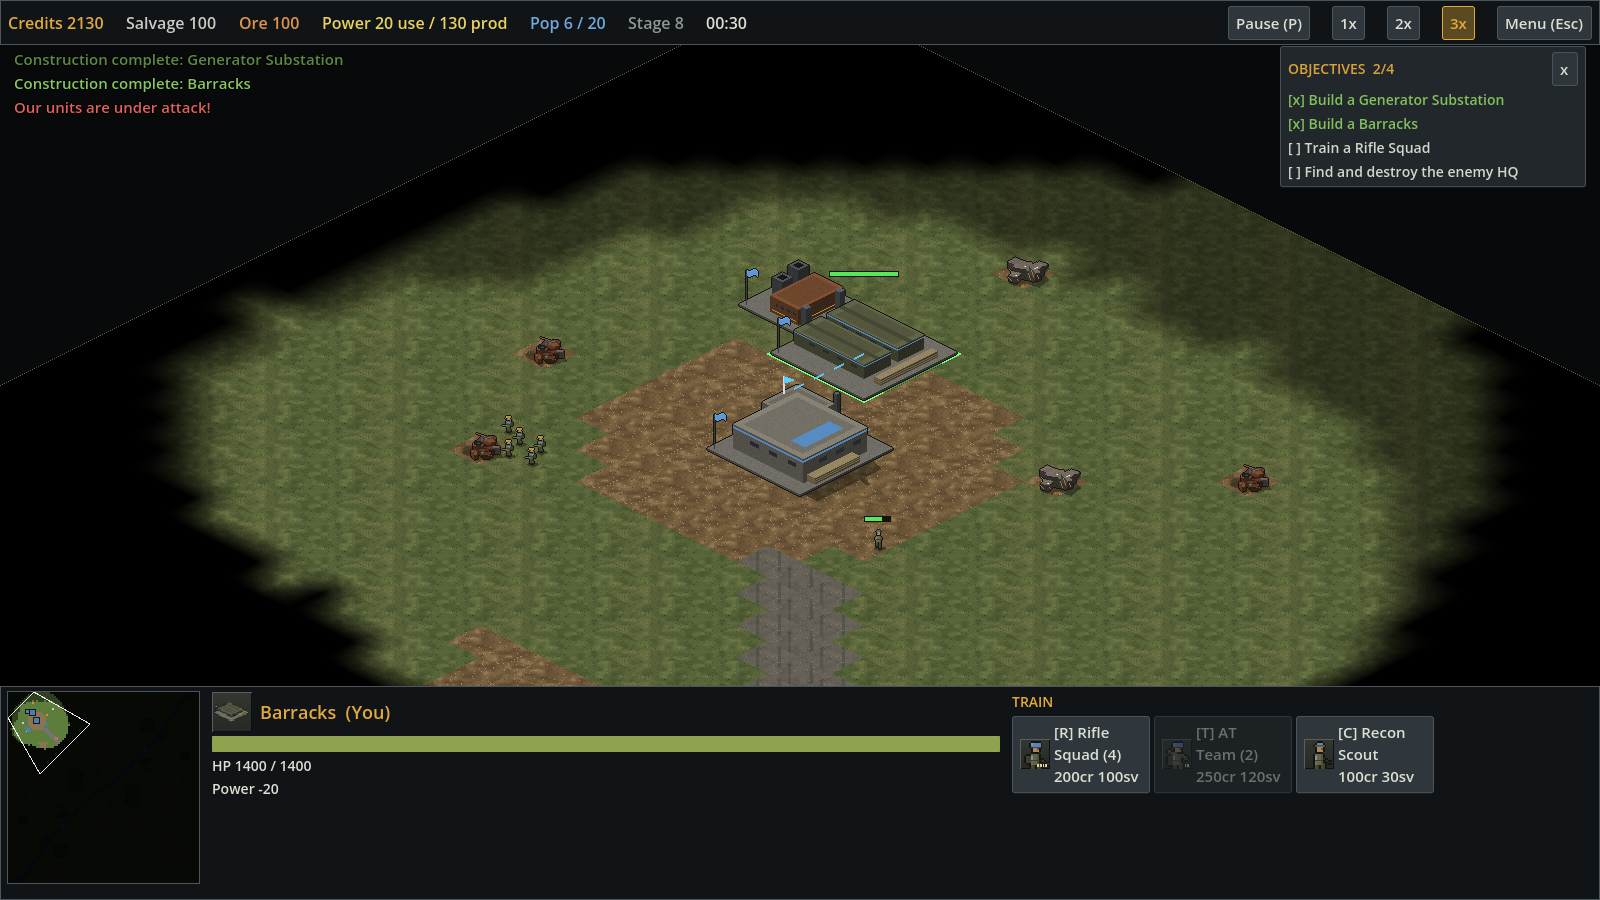
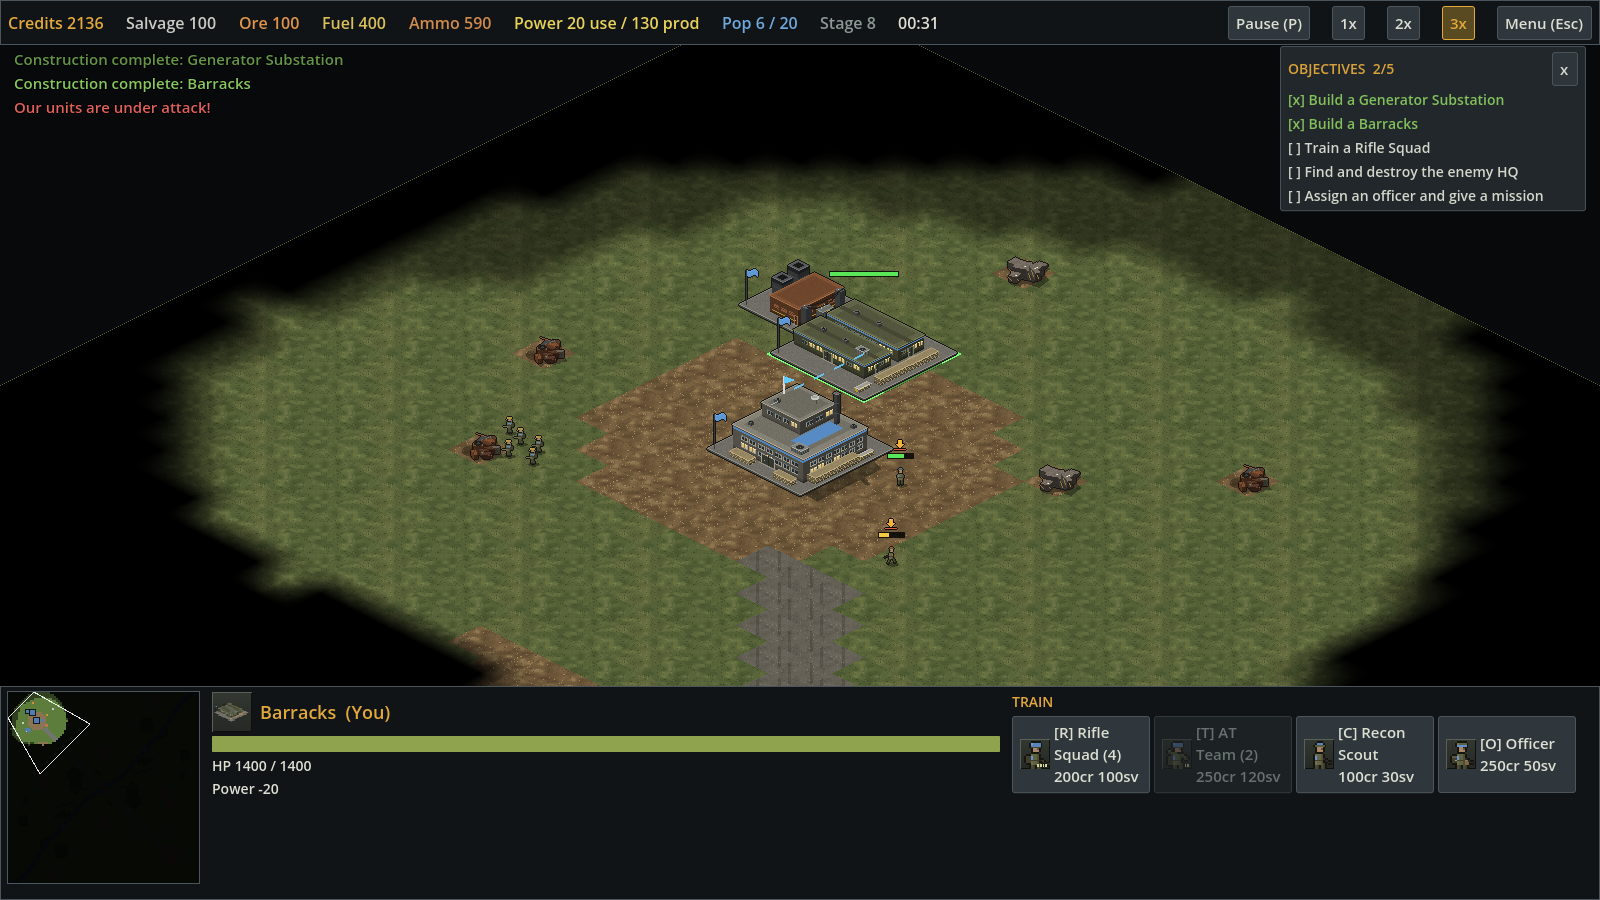
G2 verification: UI playtest with officer flow (26/26, packaged x2), quiet-machine perf report, docs
- ui_playtest drives input via Input.parse_input_event (real-equivalent);
  adds officer train -> box-select -> assign -> secure point -> reports
- PERF_REPORT_G2: sim cap >=512 units within 20 Hz budget (p95 42 ms)
- README/PROGRESS: G2 scope, evidence, known gaps

diff --git a/game/PROGRESS.md b/game/PROGRESS.md
@@ -18,6 +18,39 @@ Stop-if / park-if:        G1 tests can't be kept green, or sim drops below ~128 
 ```
 Contracts: `docs/CONTRACTS_G2.md`. Scaffold commit `d878ba1`.
 
+## G2 Done-when evidence (2026-10-23)
+1. **Tests:** `bash tests/run.sh` gives `RESULT pass=100 fail=0 files=12` / `TESTS OK`, run by ORCH after the last sim change.
+   - New: test_damage (10), test_supply (10), test_ops (10), test_g2_scenarios (7: MIL-02/QA-008, QA-007 + supply,
+     officer resupply, morale + officer death, 3000-tick conservation brawl, save@1500, determinism), plus test_ai G2 (+2).
+2. **AI-vs-AI soak** (normal, `tools/soak.gd`, final code): seeds 1-3 end in HQ elimination.
+   - seed1 winner=1 @28749, seed2 winner=1 @23426, seed3 winner=0 @15646.
+   - 8-seed sweep: 7 decisive, 4/3 side split. **Seed 4 reaches max_ticks (stalemate), a known gap.**
+   - 0 INVARIANT FAIL (incl. G2 invariants).
+   - Probe logs show the AI training officers and trucks, resupplying (pull/refill counts), repairing and flanking.
+3. **UI playtest:** `tools/ui_playtest.gd` now drives input through `Input.parse_input_event`.
+   - Covers the G1 flow plus G2: train officer, box-select squad + officer, Assign button, Secure point button + map click, mission in progress, 3 reports.
+   - Result: `PLAYTEST RESULT pass=26 fail=0` from source, and twice from the packaged build
+     (`build/RTS_Age_of_Modern_War_G2/`, zip `build/RTS_Age_of_Modern_War_G2_2026-10-23.zip`).
+   - Shot: `.plan/shots/orch/ui/ui_07_officer_mission.png`.
+4. **Perf:** `perf/PERF_REPORT_G2_2026-10-23.md` (quiet machine).
+   - G2 battle sim: 1.5 / 4.6 / 12.0 / 29.1 ms avg at 64 / 128 / 256 / 512; p95 at 512 is 42 ms < 50.
+   - **Sim cap ≥512, up from ~256.**
+   - Window fps: 53-60 / 45-53 / 21-24 at ~105 / ~210 / ~440 units.
+
+Integration fixes found by verification:
+- groups outlived dead officers for one tick;
+- the AI looped on a stale withdraw (89x);
+- long games starved of salvage, so wrecks now drop scrap and map salvage was raised;
+- cancelled foundations dropped scrap;
+- synthetic-input harness (box-drag) rebuilt on Input.parse_input_event.
+
+Known gaps:
+- the hard-AI defensive bridge demolition is not built;
+- seed 4 stalemate;
+- 1000+ units are unmeasured;
+- fps at ~440 units is choppy (the sim is on the main thread);
+- the owner has not hand-played G2 yet.
+
 ## Previous goal (G1, DONE 2026-10-23)
 
 ```

diff --git a/game/perf/PERF_REPORT_G2_2026-10-23.md b/game/perf/PERF_REPORT_G2_2026-10-23.md
@@ -1,0 +1,34 @@
+# Performance report: G2 "Smart Warfare" slice
+
+Measured 2026-10-23 on a quiet machine: no other Godot processes were running (checked with `tasklist`).
+- **Hardware:** AMD Ryzen 5 8640HS (12 logical cores), Radeon 760M integrated GPU, 15.3 GiB RAM, Windows 11.
+- **Build:** Godot 4.7.2-stable official, run from source, Compatibility renderer.
+- **Code:** git `aaed0f5` plus the UI-playtest changes. All G2 systems were real during the runs.
+
+## Simulation cost (headless `tools/bench.gd`, 600 ticks, 50 ms/tick budget at 20 Hz)
+
+| Units | G1 report (G1 code) | G1 battle scenario, G2 code | G2 battle scenario (`--g2`: officers + missions, forest cover, logistics trucks) |
+|---|---|---|---|
+| 64 | 3.2 avg | 1.3 avg / 2.7 p95 | 1.5 avg / 2.9 p95 |
+| 128 | 5.2 | 3.2 / 5.5 | 4.6 / 7.3 |
+| 256 | 11.9 | 9.4 / 15.7 | 12.0 / 18.8 |
+| 512 | 75.3 (over budget) | 20.0 / 32.3 | 29.1 / 42.4 |
+
+**Measured supported cap (sim): 512 fighting units, with every G2 system active, held within the 20 Hz budget at the p95 tick (42 ms of 50 ms).** That beats G1's ~256 cap. The A* budget, separation hashing, staggered target scans and morale skipping more than paid for the new systems. Max-tick spikes are 18–86 ms (first-tick path warm-up). 1,000+ units has not been measured, so the design's 500–2,000 range is only half-demonstrated.
+
+## Rendered frame rate (windowed 1600x900, vsync, `--spawn-test=N --fps-log`)
+
+| Units on map | fps | Sim ticks/s | Note |
+|---|---|---|---|
+| ~105 | 53–60 | 20 | |
+| ~210 | 45–53 | 20 | Same as G1 despite the G2 overlays |
+| ~440 | 21–24 | 20 | The sim keeps real time, but rendering gets choppy because the sim takes ~420 ms of each second on the main thread |
+
+## Not measured / caveats
+- 1,000+ units.
+- Memory per N.
+- An exported release build (only the editor runtime with a packed .pck).
+- Other hardware.
+- Long-session memory growth.
+
+**Next lever:** moving the sim to a worker thread would decouple fps from sim cost at 400+ units.

diff --git a/game/README.md b/game/README.md
@@ -1,4 +1,4 @@
-# RTS: Age of Modern War: first playable slice (G0+G1)
+# RTS: Age of Modern War: playable slice (G0+G1+G2)
 
 A classic real-time strategy skirmish built in **Godot 4.7.2**. It is offline and single-player.
 
@@ -48,10 +48,24 @@ Useful flags (append to the launcher):
 ```bash
 bash game/tests/run.sh
 ```
-This runs 60 headless tests: ledger conservation, command validation, placement rules, power/supply stalls, pathing, combat, fog fairness, victory, save round-trip, same-seed determinism, AI autonomy and AI fairness. Other checks:
+This runs 100 headless tests: ledger conservation, command validation, placement rules, power/supply stalls, pathing, combat, fog fairness, victory, save round-trip, same-seed determinism, AI autonomy and AI fairness. Other checks:
 - `game/tools/soak.gd`: AI vs AI to a winner.
 - `game/tools/bench.gd`: sim performance.
 - `game/tools/ui_playtest.gd`: a menu → build → train → attack-move flow driven by synthetic input.
+
+## G2 "Smart Warfare" (2026-10-23)
+- **Supply:** ammo and fuel with resupply near the HQ, depots and supply trucks; the refinery converts ore into fuel and ammo.
+- **Combat:**
+  - directional armor (flank the tanks);
+  - infantry cover, suppression/pinning, and morale break/retreat/rally;
+  - vehicle component damage (mobility/weapon/sensors);
+  - ridges block line of fire, and infantry hide in forest.
+- **Engineer repair.** Wrecks leave scrap you can harvest.
+- **Officers** command groups on delegated missions (secure / hold / attack / patrol) and report their phase and reasons. Also patrol, guard and formations.
+- **The river bridge** can be demolished (Shift+right-click) and rebuilt; traffic reroutes over the fords.
+- **The AI** uses all of the above.
+- More detailed vehicle and building art.
+- Evidence: `PROGRESS.md`, `perf/PERF_REPORT_G2_2026-10-23.md`. Packaged build: `build/RTS_Age_of_Modern_War_G2/`.
 
 ## Status (honest)
 - **Done and verified:** G0+G1 core loop. Evidence is in `PROGRESS.md`.

diff --git a/game/perf/BENCH_2026-10-23.md b/game/perf/BENCH_2026-10-23.md
@@ -2,8 +2,8 @@
 
 Measures SIM time only (`SimWorld.step()`), headless. Rendering fps is measured separately.
 
-- Git: `2ac8c1d`, working tree DIRTY (9 changed paths)
-- System implementations at run time: economy=real, construction=real, production=real, gather=real, movement=real, combat=real, fog=real, victory=real, ai=real
+- Git: `aaed0f5`, working tree DIRTY (22 changed paths)
+- System implementations at run time: economy=real, construction=real, production=real, gather=real, movement=real, combat=real, fog=real, victory=real, damage=real, morale=real, supply=real, repair=real, ops=real, orders=real, bridges=real, ai=real
 - CPU: AMD Ryzen 5 8640HS w/ Radeon 760M Graphics (12 logical cores)
 - RAM: 15.3 GiB physical
 - OS: Windows 10.0.26200
@@ -12,10 +12,10 @@ Measures SIM time only (`SimWorld.step()`), headless. Rendering fps is measured 
 
 | N (total) | placed (A/B) | entities start | avg ms/tick | p95 ms | max ms | survivors A/B after 600 ticks | entities end | wall ms | headroom vs 50 ms budget (p95) |
 |---|---|---|---|---|---|---|---|---|---|
-| 64 | 32/32 | 80 | 3.155 | 5.471 | 192.630 | 8/4 | 37 | 1894 | 9.1x |
-| 128 | 64/64 | 144 | 5.181 | 8.943 | 200.462 | 36/28 | 102 | 3151 | 5.6x |
-| 256 | 128/128 | 272 | 11.936 | 27.068 | 273.550 | 83/90 | 222 | 7163 | 1.8x |
-| 512 | 256/256 | 528 | 75.328 | 302.010 | 2372.132 | 164/156 | 390 | 45198 | 0.2x |
+| 64 | 32/32 | 81 | 1.276 | 2.660 | 19.522 | 12/8 | 51 | 766 | 18.8x |
+| 128 | 64/64 | 145 | 3.247 | 5.515 | 17.836 | 42/46 | 143 | 1949 | 9.1x |
+| 256 | 128/128 | 273 | 9.390 | 15.716 | 41.775 | 94/101 | 260 | 5635 | 3.2x |
+| 512 | 256/256 | 529 | 20.014 | 32.344 | 63.588 | 174/178 | 463 | 12010 | 1.5x |
 
 - N=64 window: x0=2 y0=2 open=344/345
 - N=128 window: x0=2 y0=2 open=344/345

diff --git a/game/perf/BENCH_G2_2026-10-23.md b/game/perf/BENCH_G2_2026-10-23.md
@@ -2,7 +2,7 @@
 
 Measures SIM time only (`SimWorld.step()`), headless. Rendering fps is measured separately.
 
-- Git: `d878ba1`, working tree DIRTY (293 changed paths)
+- Git: `aaed0f5`, working tree DIRTY (23 changed paths)
 - System implementations at run time: economy=real, construction=real, production=real, gather=real, movement=real, combat=real, fog=real, victory=real, damage=real, morale=real, supply=real, repair=real, ops=real, orders=real, bridges=real, ai=real
 - CPU: AMD Ryzen 5 8640HS w/ Radeon 760M Graphics (12 logical cores)
 - RAM: 15.3 GiB physical
@@ -13,10 +13,10 @@ Measures SIM time only (`SimWorld.step()`), headless. Rendering fps is measured 
 
 | N (total) | placed (A/B) | entities start | avg ms/tick | p95 ms | max ms | survivors A/B after 600 ticks | entities end | wall ms | headroom vs 50 ms budget (p95) |
 |---|---|---|---|---|---|---|---|---|---|
-| 64 | 32/32 | 87 | 4.584 | 7.848 | 242.523 | 12/13 | 50 | 2751 | 6.4x |
-| 128 | 64/64 | 157 | 15.697 | 46.966 | 391.182 | 37/62 | 134 | 9420 | 1.1x |
-| 256 | 128/128 | 297 | 21.020 | 69.410 | 301.590 | 94/111 | 251 | 12613 | 0.7x |
-| 512 | 256/256 | 577 | 52.833 | 98.665 | 891.593 | 193/210 | 467 | 31701 | 0.5x |
+| 64 | 32/32 | 87 | 1.459 | 2.865 | 17.995 | 12/13 | 58 | 875 | 17.5x |
+| 128 | 64/64 | 157 | 4.646 | 7.283 | 18.413 | 37/62 | 152 | 2788 | 6.9x |
+| 256 | 128/128 | 297 | 12.046 | 18.750 | 42.650 | 94/111 | 280 | 7229 | 2.7x |
+| 512 | 256/256 | 577 | 29.080 | 42.384 | 85.875 | 193/210 | 514 | 17449 | 1.2x |
 
 - N=64 window: x0=2 y0=2 open=344/345, extras: 4 officers, 2 trucks
 - N=128 window: x0=2 y0=2 open=344/345, extras: 8 officers, 4 trucks
